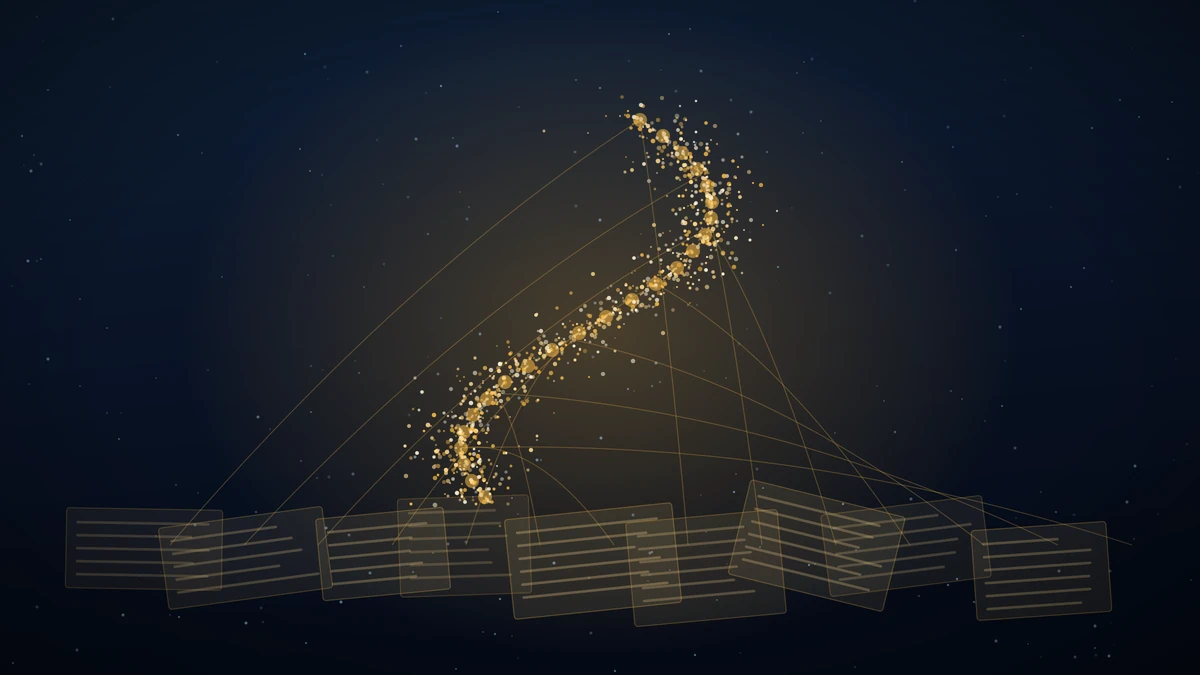
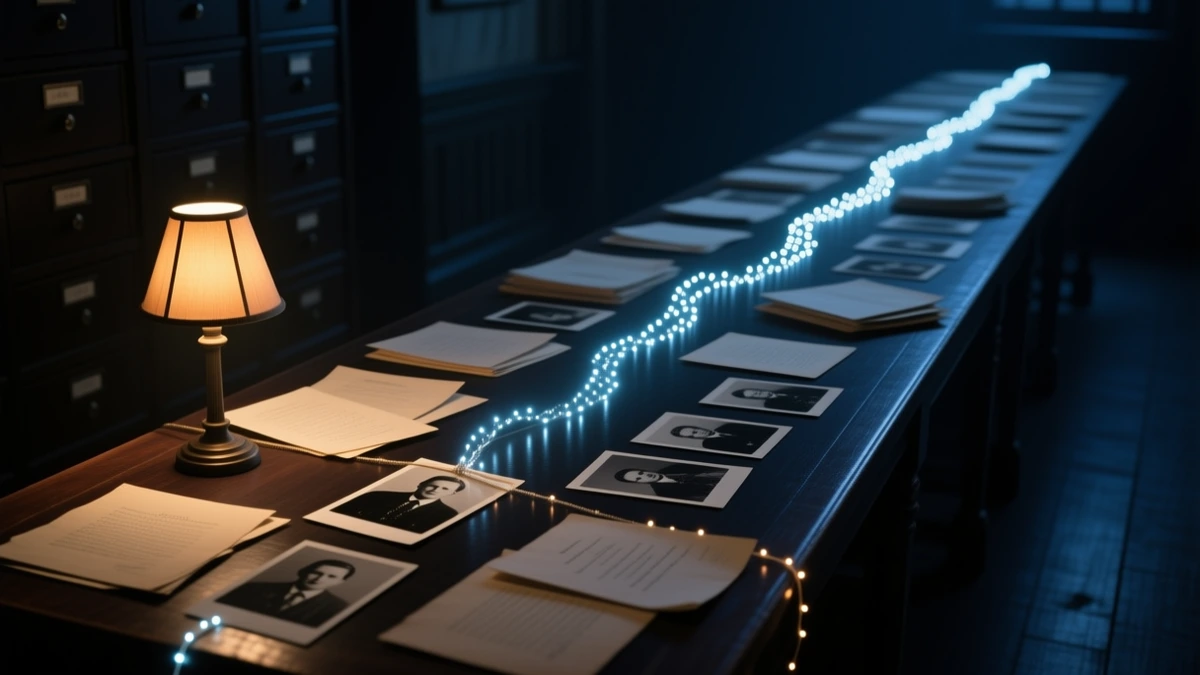
Replace the three Misc pictures that never matched the page
The Misc covers share a look: a real scene photographed in the dark, with a
luminous ethereal layer inside that same scene. Three pictures were flat vector
drawings instead and stood out badly, the hero worst of all.

- Hero: the hand-drawn SVG constellation is gone. In its place, an open book on
  a desk in a dim study at night, a globe of light points above it tied by fine
  threads to floating panels of charts. Reading, and what the reading connects.
- Vietnam unity: an archive table of aged letters and old portraits under a
  lamp, with one unbroken ribbon of light running its whole length and threads
  dropping to each photograph. Continuity of a shared record. Deliberately no
  map of Vietnam, which cannot be drawn reliably and is not worth getting wrong.
- The letter: a blank sheet and an envelope by a window at night, an arc of
  golden particles rising from the page and curving over the water toward a
  second skyline.

Alt text rewritten for all three, including the old hero text that promised a
map. Dropped the eight now-unused .misc-constellation rules and swapped the
inline SVG for an img with object-fit: cover.

diff --git a/_sass/_custom.scss b/_sass/_custom.scss
@@ -1783,53 +1783,12 @@ a:hover {
   overflow: hidden;
 }
 
-.misc-constellation {
+.misc-hero__visual img {
   display: block;
   width: 100%;
   height: 100%;
   min-height: 18rem;
-}
-
-.misc-constellation__wash {
-  fill: rgba(95, 208, 255, 0.12);
-}
-
-.misc-constellation__ribbon {
-  fill: none;
-  stroke-width: 13;
-  stroke-linecap: round;
-  stroke-linejoin: round;
-  filter: drop-shadow(0 0 8px rgba(95, 208, 255, 0.65));
-}
-
-.misc-constellation__ribbon--soft {
-  stroke-width: 6;
-  opacity: 0.46;
-}
-
-.misc-constellation__grid path {
-  fill: none;
-  stroke: rgba(151, 210, 255, 0.18);
-  stroke-width: 2;
-}
-
-.misc-constellation__cards rect {
-  fill: rgba(9, 25, 44, 0.7);
-  stroke: rgba(132, 210, 255, 0.26);
-  stroke-width: 2.2;
-}
-
-.misc-constellation__lines line {
-  stroke: rgba(132, 210, 255, 0.34);
-  stroke-width: 4;
-  stroke-linecap: round;
-}
-
-.misc-constellation__nodes circle {
-  fill: rgba(8, 20, 34, 0.94);
-  stroke: #5fd0ff;
-  stroke-width: 6;
-  filter: drop-shadow(0 0 8px rgba(95, 208, 255, 0.8));
+  object-fit: cover;
 }
 
 .misc-section-note {
@@ -2651,7 +2610,7 @@ a:hover {
   }
 
   .misc-hero__visual,
-  .misc-constellation {
+  .misc-hero__visual img {
     min-height: 14rem;
   }
 

diff --git a/_pages/miscellaneous.md b/_pages/miscellaneous.md
@@ -29,43 +29,10 @@ author_profile: true
         <div><dt>Sources</dt><dd>{{ sources | size }}</dd></div>
       </dl>
     </div>
-    <div class="misc-hero__visual" aria-hidden="true">
-      <svg class="misc-constellation" viewBox="0 0 760 520" focusable="false">
-        <defs>
-          <linearGradient id="miscHeroRibbon" x1="0%" y1="0%" x2="100%" y2="100%">
-            <stop offset="0%" stop-color="#5fd0ff" />
-            <stop offset="50%" stop-color="#8f7cff" />
-            <stop offset="100%" stop-color="#ffb15f" />
-          </linearGradient>
-        </defs>
-        <path class="misc-constellation__wash" d="M80 302 C114 116, 344 50, 512 126 C666 196, 686 382, 498 430 C298 482, 42 454, 80 302Z" />
-        <path class="misc-constellation__ribbon" stroke="url(#miscHeroRibbon)" d="M90 358 C208 202, 330 296, 438 166 S622 150, 678 276" />
-        <path class="misc-constellation__ribbon misc-constellation__ribbon--soft" stroke="url(#miscHeroRibbon)" d="M116 232 C240 118, 354 202, 470 280 S622 370, 700 234" />
-        <g class="misc-constellation__grid">
-          <path d="M116 398 H674 M158 342 H700 M204 288 H638 M178 230 H604" />
-          <path d="M176 160 V432 M290 118 V448 M410 120 V438 M542 144 V424 M650 208 V386" />
-        </g>
-        <g class="misc-constellation__cards">
-          <rect x="104" y="112" width="150" height="104" rx="20" />
-          <rect x="314" y="78" width="178" height="118" rx="22" />
-          <rect x="528" y="246" width="150" height="104" rx="20" />
-          <rect x="220" y="330" width="176" height="112" rx="22" />
-        </g>
-        <g class="misc-constellation__lines">
-          <line x1="178" y1="164" x2="404" y2="138" />
-          <line x1="404" y1="138" x2="604" y2="298" />
-          <line x1="604" y1="298" x2="308" y2="386" />
-          <line x1="308" y1="386" x2="178" y2="164" />
-        </g>
-        <g class="misc-constellation__nodes">
-          <circle cx="178" cy="164" r="16" />
-          <circle cx="404" cy="138" r="18" />
-          <circle cx="604" cy="298" r="16" />
-          <circle cx="308" cy="386" r="18" />
-          <circle cx="498" cy="232" r="12" />
-          <circle cx="260" cy="260" r="12" />
-        </g>
-      </svg>
+    <div class="misc-hero__visual">
+      <img src="/images/misc/000-reading-atlas-hero.webp"
+           alt="An open book on a dark wooden desk at night, with a luminous globe of light points hovering above it, joined by fine lit threads to small translucent panels of charts"
+           width="1200" height="900" decoding="async">
     </div>
   </section>
 
